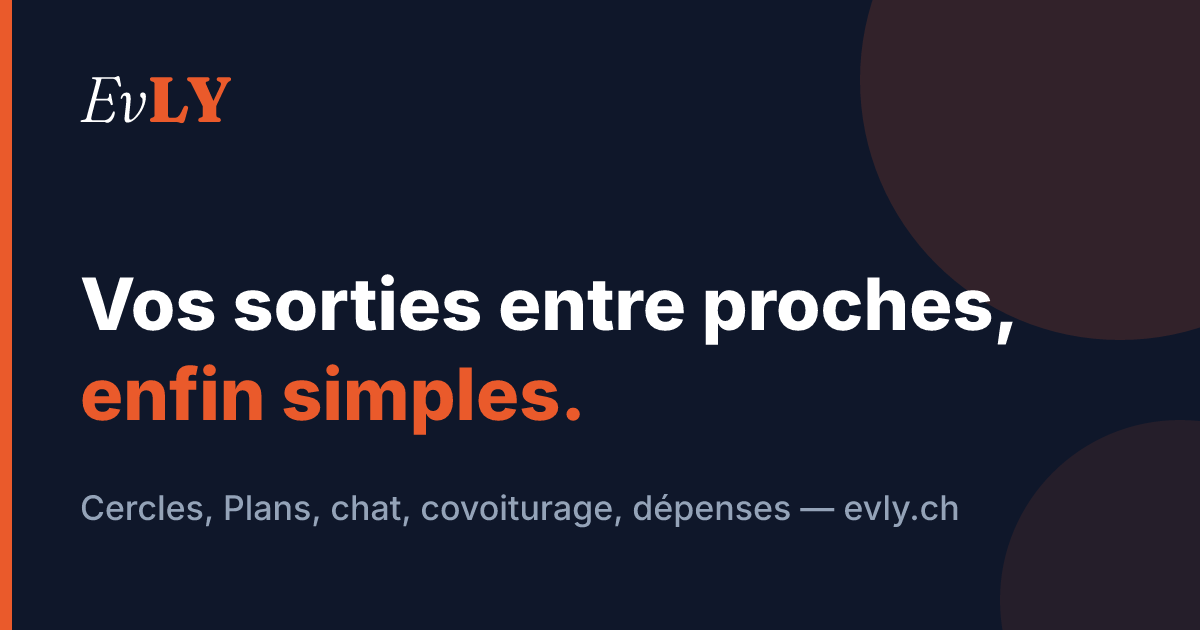
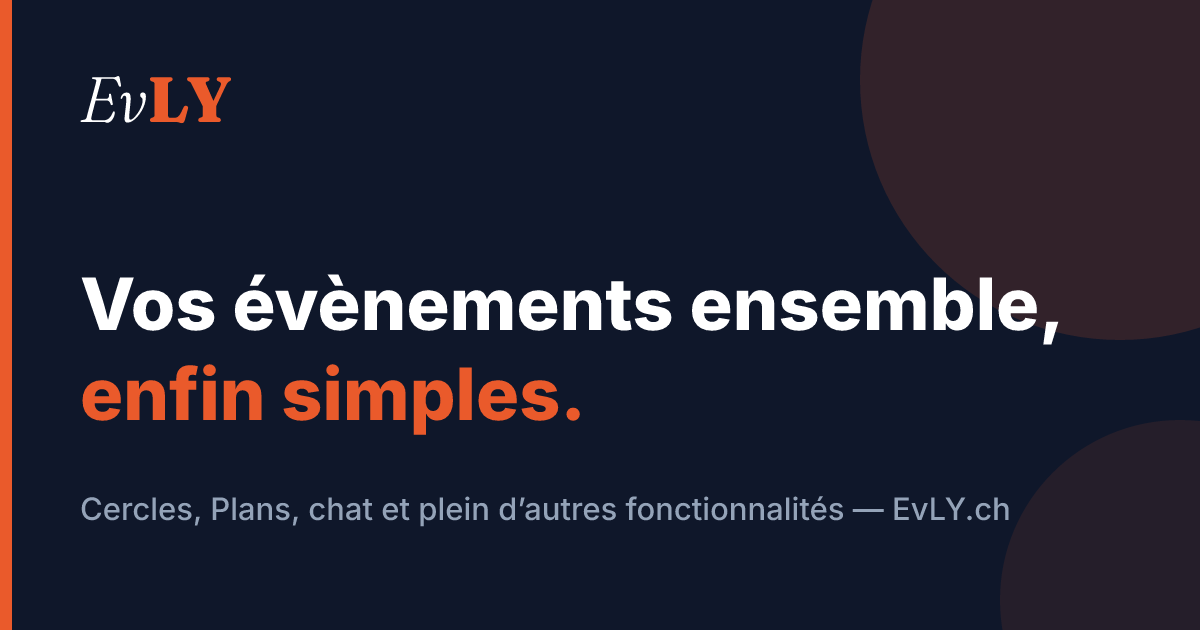
feat(partage): nouveau slogan « Vos évènements ensemble, enfin simples » dans les 4 langues
Image d'aperçu générique traduite (evly-de|it|en.png), aperçu des liens
/rejoindre dans la langue de la personne qui invite, « proches » retiré
de la description du site et de la page Sécurité des enfants.

Changed region(s): [[0.185, 0.4222, 0.8942, 0.5429], [0.0617, 0.7841, 0.8325, 0.8444]]

diff --git a/server/src/routes/share.ts b/server/src/routes/share.ts
@@ -3,7 +3,7 @@ import crypto from 'crypto';
 import prisma from '../lib/prisma';
 import { APP_URL } from '../lib/mailer';
 import { renderShareCard, type ShareCard } from '../lib/shareImage';
-import { parseLocale } from '../lib/i18n';
+import { parseLocale, type Locale } from '../lib/i18n';
 import { intlLocale } from '../lib/emailText';
 import { SHARE_TEXTS } from '../i18n/share';
 
@@ -73,36 +73,51 @@ async function siteIndex(): Promise<string | null> {
   return indexCache?.html ?? null; // dernière copie connue si le site ne répond pas
 }
 
+// Balises d'aperçu de la page servie (les balises génériques du site sont remplacées)
+function withMeta(html: string, m: { title: string; description: string; image: string; url: string; ogLocale: string }): string {
+  const meta = `
+    <meta name="robots" content="noindex, nofollow" />
+    <meta name="description" content="${esc(m.description)}" />
+    <meta property="og:type" content="website" />
+    <meta property="og:site_name" content="EvLY" />
+    <meta property="og:locale" content="${m.ogLocale}" />
+    <meta property="og:url" content="${esc(m.url)}" />
+    <meta property="og:title" content="${esc(m.title)}" />
+    <meta property="og:description" content="${esc(m.description)}" />
+    <meta property="og:image" content="${esc(m.image)}" />
+    <meta property="og:image:width" content="1200" />
+    <meta property="og:image:height" content="630" />
+    <meta property="og:image:alt" content="${esc(m.title)}" />
+    <meta name="twitter:card" content="summary_large_image" />
+  `;
+  return html
+    .replace(/\s*<meta (?:property="og:[^"]+"|name="(?:twitter:[^"]+|description)")[^>]*>/g, '')
+    .replace(/<title>[^<]*<\/title>/, `<title>${esc(m.title)}</title>`)
+    .replace('</head>', `${meta}</head>`);
+}
+
+// Image générique EvLY dans une langue (slogan) : /apercu/evly-de.png ; le français reste /og-evly.png
+const genericImage = (locale: Locale) => (locale === 'fr' ? `${SITE}/og-evly.png?v=2` : `${SITE}/apercu/evly-${locale}.png?v=2`);
+
 export function injectMeta(html: string, card: ShareCard, token: string): string {
   const T = SHARE_TEXTS[card?.locale ?? 'fr'];
   const title = card ? T.title.replace('{title}', card.title) : 'Invitation EvLY';
   const count = card && card.participants != null ? (card.participants === 1 ? T.participants_one : T.participants_other).replace('{count}', String(card.participants)) : '';
   const parts = card ? [card.date, count].filter(Boolean).join(' · ') : '';
-  const description = card
-    ? T.description.replace('{parts}', parts)
-    : 'Cette invitation n\'est plus valide. Découvre EvLY pour organiser tes sorties entre proches.';
-  const image = card ? `${SITE}/apercu/${token}.png?v=${cardVersion(card)}` : `${SITE}/og-evly.png`;
-  const url = `${SITE}/invitation?token=${encodeURIComponent(token)}`;
-  const meta = `
-    <meta name="robots" content="noindex, nofollow" />
-    <meta name="description" content="${esc(description)}" />
-    <meta property="og:type" content="website" />
-    <meta property="og:site_name" content="EvLY" />
-    <meta property="og:locale" content="${T.ogLocale}" />
-    <meta property="og:url" content="${esc(url)}" />
-    <meta property="og:title" content="${esc(title)}" />
-    <meta property="og:description" content="${esc(description)}" />
-    <meta property="og:image" content="${esc(image)}" />
-    <meta property="og:image:width" content="1200" />
-    <meta property="og:image:height" content="630" />
-    <meta property="og:image:alt" content="${esc(title)}" />
-    <meta name="twitter:card" content="summary_large_image" />
-  `;
-  return html
-    // Balises génériques du site (index.html) remplacées par celles de l'invitation
-    .replace(/\s*<meta (?:property="og:[^"]+"|name="(?:twitter:[^"]+|description)")[^>]*>/g, '')
-    .replace(/<title>[^<]*<\/title>/, `<title>${esc(title)}</title>`)
-    .replace('</head>', `${meta}</head>`);
+  return withMeta(html, {
+    title,
+    description: card ? T.description.replace('{parts}', parts) : T.expired,
+    image: card ? `${SITE}/apercu/${token}.png?v=${cardVersion(card)}` : genericImage('fr'),
+    url: `${SITE}/invitation?token=${encodeURIComponent(token)}`,
+    ogLocale: T.ogLocale,
+  });
+}
+
+// Lien d'un Cercle (/rejoindre?code=…&lang=…) : aperçu générique dans la langue de la personne qui invite,
+// sans le nom du Cercle (les messageries gardent l'aperçu)
+export function injectJoinMeta(html: string, locale: Locale, query: string): string {
+  const T = SHARE_TEXTS[locale];
+  return withMeta(html, { title: T.joinTitle, description: T.joinDescription, image: genericImage(locale), url: `${SITE}/rejoindre${query}`, ogLocale: T.ogLocale });
 }
 
 // GET /api/share/invitation?token=… — la page /invitation, avec l'aperçu du Plan
@@ -118,11 +133,32 @@ router.get('/invitation', async (req, res) => {
   res.type('html').send(injectMeta(html, card, token));
 });
 
+// GET /api/share/rejoindre?code=… — la page /rejoindre (invitation à un Cercle), avec l'aperçu dans la langue du lien
+router.get('/rejoindre', async (req, res) => {
+  const query = req.originalUrl.includes('?') ? req.originalUrl.slice(req.originalUrl.indexOf('?')) : '';
+  const html = await siteIndex();
+  if (!html) {
+    // Site injoignable et aucune copie : la même page, servie sans aperçu
+    res.redirect(302, `/rejoindre-cercle${query}`);
+    return;
+  }
+  res.set('Cache-Control', 'no-store');
+  res.type('html').send(injectJoinMeta(html, parseLocale(req.query.lang) ?? 'fr', query));
+});
+
 // GET /api/share/image/:file — /apercu/<jeton>.png (image de l'aperçu), gardée 10 minutes
 const imageCache = new Map<string, { png: Buffer; at: number }>();
 router.get('/image/:file', async (req, res) => {
   try {
     const token = req.params.file.replace(/\.png$/, '');
+    // Image générique dans une langue (evly-de, evly-it, evly-en)
+    const generic = /^evly-([a-z]{2})$/.exec(token);
+    const genericLocale = generic ? parseLocale(generic[1]) : null;
+    if (genericLocale) {
+      res.set('Cache-Control', 'public, max-age=86400');
+      res.type('png').send(renderShareCard(null, genericLocale));
+      return;
+    }
     const card = await shareCardFor(token);
     const key = `${token}:${cardVersion(card)}`;
     let entry = imageCache.get(key);

diff --git a/server/src/i18n/share.ts b/server/src/i18n/share.ts
@@ -4,9 +4,11 @@ import type { Locale } from '../lib/i18n';
 export const SHARE_TEXTS: Record<Locale, {
   ogLocale: string; title: string; participants_one: string; participants_other: string;
   description: string; badge: string; proposedBy: string; cta: string;
+  // Carte générique (lien de Cercle, lien expiré, site)
+  slogan1: string; slogan2: string; tagline: string; expired: string; joinTitle: string; joinDescription: string;
 }> = {
-  fr: { ogLocale: 'fr_CH', title: '{title} — invitation EvLY', participants_one: '{count} participant', participants_other: '{count} participants', description: '{parts} — Réponds en un clic, sans créer de compte.', badge: 'INVITATION', proposedBy: 'proposé par {name}', cta: 'Réponds en un clic →' },
-  de: { ogLocale: 'de_CH', title: '{title} — Einladung EvLY', participants_one: '{count} Teilnehmer/in', participants_other: '{count} Teilnehmende', description: '{parts} — Antworte mit einem Klick, ohne Konto.', badge: 'EINLADUNG', proposedBy: 'vorgeschlagen von {name}', cta: 'Mit einem Klick antworten →' },
-  it: { ogLocale: 'it_CH', title: '{title} — invito EvLY', participants_one: '{count} partecipante', participants_other: '{count} partecipanti', description: '{parts} — Rispondi con un clic, senza creare un account.', badge: 'INVITO', proposedBy: 'proposto da {name}', cta: 'Rispondi con un clic →' },
-  en: { ogLocale: 'en_GB', title: '{title} — EvLY invitation', participants_one: '{count} participant', participants_other: '{count} participants', description: '{parts} — Reply in one click, no account needed.', badge: 'INVITATION', proposedBy: 'suggested by {name}', cta: 'Reply in one click →' },
+  fr: { ogLocale: 'fr_CH', title: '{title} — invitation EvLY', participants_one: '{count} participant', participants_other: '{count} participants', description: '{parts} — Réponds en un clic, sans créer de compte.', badge: 'INVITATION', proposedBy: 'proposé par {name}', cta: 'Réponds en un clic →', slogan1: 'Vos évènements ensemble,', slogan2: 'enfin simples.', tagline: 'Cercles, Plans, chat et plein d’autres fonctionnalités — EvLY.ch', expired: 'Cette invitation n’est plus valide. Découvre EvLY pour organiser vos évènements ensemble.', joinTitle: 'Invitation à rejoindre un Cercle EvLY', joinDescription: 'On t’invite à rejoindre un Cercle sur EvLY : Plans, chat et plein d’autres fonctionnalités.' },
+  de: { ogLocale: 'de_CH', title: '{title} — Einladung EvLY', participants_one: '{count} Teilnehmer/in', participants_other: '{count} Teilnehmende', description: '{parts} — Antworte mit einem Klick, ohne Konto.', badge: 'EINLADUNG', proposedBy: 'vorgeschlagen von {name}', cta: 'Mit einem Klick antworten →', slogan1: 'Eure Anlässe gemeinsam,', slogan2: 'endlich einfach.', tagline: 'Kreise, Pläne, Chat und viele weitere Funktionen — EvLY.ch', expired: 'Diese Einladung ist nicht mehr gültig. Entdecke EvLY, um eure Anlässe gemeinsam zu organisieren.', joinTitle: 'Einladung in einen Kreis auf EvLY', joinDescription: 'Du bist eingeladen, einem Kreis auf EvLY beizutreten: Pläne, Chat und viele weitere Funktionen.' },
+  it: { ogLocale: 'it_CH', title: '{title} — invito EvLY', participants_one: '{count} partecipante', participants_other: '{count} partecipanti', description: '{parts} — Rispondi con un clic, senza creare un account.', badge: 'INVITO', proposedBy: 'proposto da {name}', cta: 'Rispondi con un clic →', slogan1: 'I vostri eventi insieme,', slogan2: 'finalmente semplici.', tagline: 'Cerchi, Plan, chat e tante altre funzioni — EvLY.ch', expired: 'Questo invito non è più valido. Scopri EvLY per organizzare i vostri eventi insieme.', joinTitle: 'Invito a unirti a un Cerchio su EvLY', joinDescription: 'Ti invitano a unirti a un Cerchio su EvLY: Plan, chat e tante altre funzioni.' },
+  en: { ogLocale: 'en_GB', title: '{title} — EvLY invitation', participants_one: '{count} participant', participants_other: '{count} participants', description: '{parts} — Reply in one click, no account needed.', badge: 'INVITATION', proposedBy: 'suggested by {name}', cta: 'Reply in one click →', slogan1: 'Your events together,', slogan2: 'finally simple.', tagline: 'Circles, Plans, chat and many more features — EvLY.ch', expired: 'This invitation is no longer valid. Discover EvLY to organise your events together.', joinTitle: 'Invitation to join a Circle on EvLY', joinDescription: 'You’re invited to join a Circle on EvLY: Plans, chat and many more features.' },
 };

diff --git a/client/src/pages/ChildSafetyPage.tsx b/client/src/pages/ChildSafetyPage.tsx
@@ -14,7 +14,7 @@ const CONTENT: Record<Lang, ReactNode> = {
       <header>
         <h1 className="text-2xl font-bold text-slate-900">EvLY — Normes de sécurité des enfants</h1>
         <p className="mt-3">
-          EvLY (« Events Linked to You ») est une application d'organisation de sorties entre proches,
+          EvLY (« Events Linked to You ») est une application d'organisation d'évènements entre amis, en famille, en club ou en association,
           réservée aux personnes de 16 ans et plus. EvLY applique une tolérance zéro envers les abus et
           l'exploitation sexuelle des enfants.
         </p>
@@ -72,7 +72,7 @@ const CONTENT: Record<Lang, ReactNode> = {
     <article className="bg-white rounded-2xl border border-slate-200 shadow-sm p-6 sm:p-8 space-y-6 text-sm text-slate-700 leading-relaxed">
       <header>
         <h1 className="text-2xl font-bold text-slate-900">EvLY — Standards zum Schutz von Kindern</h1>
-        <p className="mt-3">EvLY («Events Linked to You») ist eine App zum Organisieren von Treffen unter Angehörigen, vorbehalten für Personen ab 16 Jahren. EvLY verfolgt eine Null-Toleranz-Politik gegenüber sexuellem Missbrauch und sexueller Ausbeutung von Kindern.</p>
+        <p className="mt-3">EvLY («Events Linked to You») ist eine App zum Organisieren von Anlässen unter Freunden, in der Familie, im Verein oder in einer Organisation, vorbehalten für Personen ab 16 Jahren. EvLY verfolgt eine Null-Toleranz-Politik gegenüber sexuellem Missbrauch und sexueller Ausbeutung von Kindern.</p>
       </header>
       <section className="space-y-2">
         <h2 className="text-base font-bold text-slate-900">Was strikt verboten ist</h2>
@@ -107,7 +107,7 @@ const CONTENT: Record<Lang, ReactNode> = {
     <article className="bg-white rounded-2xl border border-slate-200 shadow-sm p-6 sm:p-8 space-y-6 text-sm text-slate-700 leading-relaxed">
       <header>
         <h1 className="text-2xl font-bold text-slate-900">EvLY — Standard di sicurezza dei minori</h1>
-        <p className="mt-3">EvLY («Events Linked to You») è un’app per organizzare uscite tra persone care, riservata alle persone dai 16 anni in su. EvLY applica una tolleranza zero verso gli abusi e lo sfruttamento sessuale dei minori.</p>
+        <p className="mt-3">EvLY («Events Linked to You») è un’app per organizzare eventi tra amici, in famiglia, in un club o in un’associazione, riservata alle persone dai 16 anni in su. EvLY applica una tolleranza zero verso gli abusi e lo sfruttamento sessuale dei minori.</p>
       </header>
       <section className="space-y-2">
         <h2 className="text-base font-bold text-slate-900">Ciò che è severamente vietato</h2>
@@ -142,7 +142,7 @@ const CONTENT: Record<Lang, ReactNode> = {
     <article className="bg-white rounded-2xl border border-slate-200 shadow-sm p-6 sm:p-8 space-y-6 text-sm text-slate-700 leading-relaxed">
       <header>
         <h1 className="text-2xl font-bold text-slate-900">EvLY — Child safety standards</h1>
-        <p className="mt-3">EvLY (“Events Linked to You”) is an app for organising outings with people close to you, for people aged 16 and over. EvLY has zero tolerance for child sexual abuse and exploitation.</p>
+        <p className="mt-3">EvLY (“Events Linked to You”) is an app for organising events with friends, family, clubs or associations, for people aged 16 and over. EvLY has zero tolerance for child sexual abuse and exploitation.</p>
       </header>
       <section className="space-y-2">
         <h2 className="text-base font-bold text-slate-900">What is strictly forbidden</h2>

diff --git a/server/src/lib/shareImage.ts b/server/src/lib/shareImage.ts
@@ -45,7 +45,7 @@ export function wrapTitle(title: string, maxChars: number, maxLines = 2): string
   return lines;
 }
 
-export function shareCardSvg(card: ShareCard): string {
+export function shareCardSvg(card: ShareCard, genericLocale: Locale = 'fr'): string {
   const W = 1200, H = 630;
   const logo = `
     <text x="80" y="122" font-family="Fraunces" font-size="64">
@@ -58,11 +58,14 @@ export function shareCardSvg(card: ShareCard): string {
     <rect x="0" y="0" width="12" height="${H}" fill="#ea5a2b"/>`;
 
   if (!card) {
+    const G = SHARE_TEXTS[genericLocale];
+    // Ligne grise : rétrécie si la traduction est longue (largeur moyenne d'Inter ≈ 0,52 em)
+    const taglineSize = Math.min(34, Math.floor(1040 / (G.tagline.length * 0.52)));
     return `<svg xmlns="http://www.w3.org/2000/svg" width="${W}" height="${H}" viewBox="0 0 ${W} ${H}">
       ${background}${logo}
-      <text x="80" y="330" font-family="Inter" font-weight="800" font-size="72" fill="#ffffff">Vos sorties entre proches,</text>
-      <text x="80" y="420" font-family="Inter" font-weight="800" font-size="72" fill="#ea5a2b">enfin simples.</text>
-      <text x="80" y="520" font-family="Inter" font-weight="500" font-size="34" fill="#94a3b8">Cercles, Plans, chat, covoiturage, dépenses — evly.ch</text>
+      <text x="80" y="330" font-family="Inter" font-weight="800" font-size="72" fill="#ffffff">${esc(G.slogan1)}</text>
+      <text x="80" y="420" font-family="Inter" font-weight="800" font-size="72" fill="#ea5a2b">${esc(G.slogan2)}</text>
+      <text x="80" y="520" font-family="Inter" font-weight="500" font-size="${taglineSize}" fill="#94a3b8">${esc(G.tagline)}</text>
     </svg>`;
   }
 
@@ -90,8 +93,8 @@ export function shareCardSvg(card: ShareCard): string {
   </svg>`;
 }
 
-export function renderShareCard(card: ShareCard): Buffer {
-  const resvg = new Resvg(shareCardSvg(card), {
+export function renderShareCard(card: ShareCard, genericLocale: Locale = 'fr'): Buffer {
+  const resvg = new Resvg(shareCardSvg(card, genericLocale), {
     font: { fontFiles: FONT_FILES, loadSystemFonts: false, defaultFontFamily: 'Inter' },
     fitTo: { mode: 'width', value: 1200 },
   });

diff --git a/client/index.html b/client/index.html
@@ -6,12 +6,12 @@
     <link rel="icon" type="image/svg+xml" href="/logo-evly.svg" />
     <title>EvLY — Events Linked to You</title>
     <!-- Aperçu des liens evly.ch dans les messageries (remplacé pour /invitation par server/src/routes/share.ts) -->
-    <meta name="description" content="Organise tes sorties entre proches : Cercles, Plans, chat, covoiturage et dépenses partagées." />
+    <meta name="description" content="Vos évènements ensemble, enfin simples : Cercles, Plans, chat et plein d’autres fonctionnalités." />
     <meta property="og:type" content="website" />
     <meta property="og:site_name" content="EvLY" />
     <meta property="og:title" content="EvLY — Events Linked to You" />
-    <meta property="og:description" content="Organise tes sorties entre proches : Cercles, Plans, chat, covoiturage et dépenses partagées." />
-    <meta property="og:image" content="https://www.evly.ch/og-evly.png" />
+    <meta property="og:description" content="Vos évènements ensemble, enfin simples : Cercles, Plans, chat et plein d’autres fonctionnalités." />
+    <meta property="og:image" content="https://www.evly.ch/og-evly.png?v=2" />
     <meta property="og:image:width" content="1200" />
     <meta property="og:image:height" content="630" />
     <meta name="twitter:card" content="summary_large_image" />

diff --git a/server/src/lib/lightGuest.test.ts b/server/src/lib/lightGuest.test.ts
@@ -2,7 +2,7 @@ import { describe, expect, it } from 'vitest';
 import { cleanFirstName, lightPseudoBase } from './lightGuest';
 import { validatePseudo } from './pseudo';
 import { wrapTitle } from './shareImage';
-import { injectMeta, shareDate } from '../routes/share';
+import { injectJoinMeta, injectMeta, shareDate } from '../routes/share';
 
 describe('réponse sans compte', () => {
   it('pseudo « prenom.invite », impossible à choisir pour un vrai compte', () => {
@@ -42,6 +42,10 @@ describe('aperçu des invitations', () => {
     expect(out).toContain('noindex');
     expect(out.match(/og:title/g)).toHaveLength(1);
     expect(injectMeta(html, null, 'zzz')).toContain('og-evly.png');
+    const join = injectJoinMeta(html, 'it', '?code=ABC123&lang=it');
+    expect(join).toContain('/apercu/evly-it.png');
+    expect(join).toContain('content="Invito a unirti a un Cerchio su EvLY"');
+    expect(join).toContain('/rejoindre?code=ABC123&amp;lang=it');
     const de = injectMeta(html, { title: 'Raclette', date: null, participants: 1, creatorName: 'Julie', locale: 'de' }, 'abcdefghijkl');
     expect(de).toContain('content="1 Teilnehmer/in — Antworte mit einem Klick, ohne Konto."');
     expect(de).toContain('content="de_CH"');

diff --git a/client/src/components/circles/InviteModal.tsx b/client/src/components/circles/InviteModal.tsx
@@ -4,7 +4,7 @@ import QRCode from 'qrcode';
 import { Modal } from '../ui/Modal';
 import api from '../../services/api';
 import { publicOrigin } from '../../lib/siteUrl';
-import { t } from '../../i18n';
+import { t, currentLang } from '../../i18n';
 import { Trans } from 'react-i18next';
 
 interface Props {
@@ -50,7 +50,8 @@ export function InviteModal({ circleName, circleCode, circleId, planTitle, planI
   const appUrl = publicOrigin();
 
   // Le code suffit (le nom du Cercle peut changer) ; titre et id du Plan pour une invitation à un Plan
-  const circleLink = `${appUrl}/rejoindre?code=${circleCode}${planId ? `&planId=${planId}` : ''}${planTitle ? `&plan=${encodeURIComponent(planTitle)}` : ''}`;
+  // lang : aperçu du lien (image, texte) dans la langue de la personne qui invite
+  const circleLink = `${appUrl}/rejoindre?code=${circleCode}${planId ? `&planId=${planId}` : ''}${planTitle ? `&plan=${encodeURIComponent(planTitle)}` : ''}&lang=${currentLang()}`;
   const guestLink = guestToken ? `${appUrl}/invitation?token=${guestToken}` : '';
   const isGuestMode = mode === 'guest';
   const joinLink = isGuestMode ? guestLink : circleLink;

diff --git a/server/src/routes/invitations.ts b/server/src/routes/invitations.ts
@@ -80,7 +80,7 @@ async function resolveInvite(req: AuthRequest): Promise<Invite | { error: string
   if (!member) return { error: 'Accès refusé', status: 403 };
   const circle = await prisma.circle.findUnique({ where: { id: circleId }, select: { name: true, code: true } });
   if (!circle) return { error: 'Cercle introuvable', status: 404 };
-  const link = `${APP_URL}/rejoindre?code=${circle.code}${plan ? `&planId=${plan.id}&plan=${encodeURIComponent(plan.title)}` : ''}`;
+  const link = `${APP_URL}/rejoindre?code=${circle.code}${plan ? `&planId=${plan.id}&plan=${encodeURIComponent(plan.title)}` : ''}&lang=${requestLocale(req)}`;
   return { link, circleName: circle.name, planTitle: plan?.title ?? null, code: circle.code, guest: false };
 }
 

diff --git a/client/src/App.tsx b/client/src/App.tsx
@@ -57,6 +57,7 @@ export default function App() {
         <Route path="/dashboard"             element={<Protected><DashboardPage /></Protected>} />
         <Route path="/admin"                 element={<Protected><AdminOnly><AdminPage /></AdminOnly></Protected>} />
         <Route path="/rejoindre"             element={<JoinPage />} />
+        <Route path="/rejoindre-cercle"      element={<JoinPage />} />
         <Route path="/invitation"            element={<GuestInvitePage />} />
         <Route path="/organiser"             element={<OrganizePage />} />
         <Route path="/demo"                  element={<DemoPage />} />
